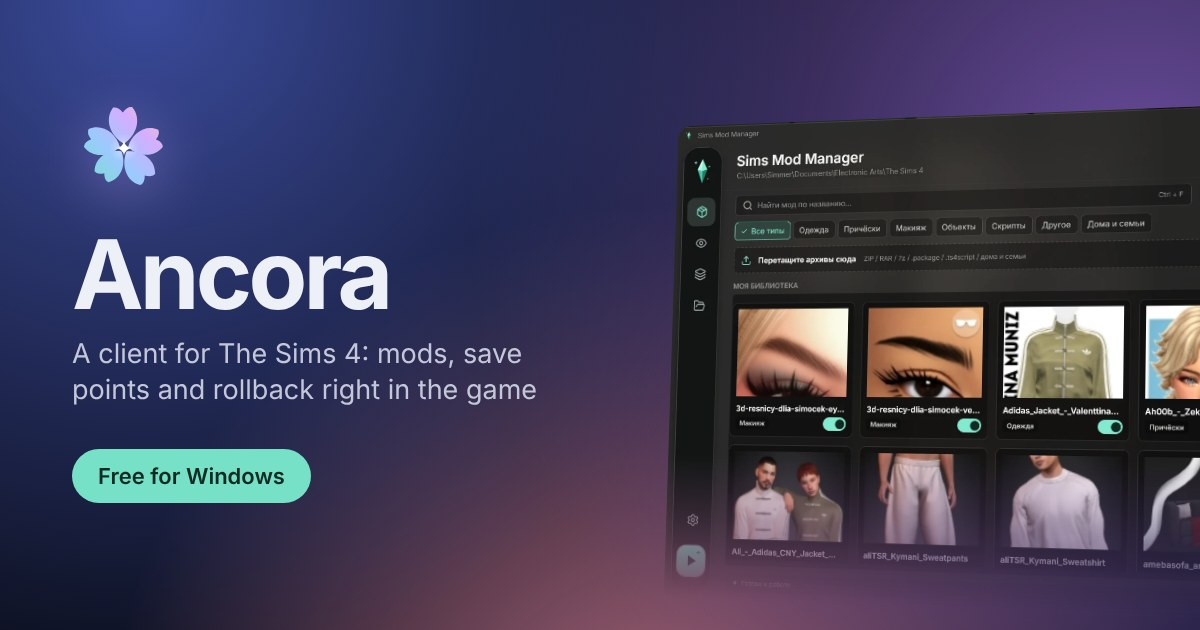
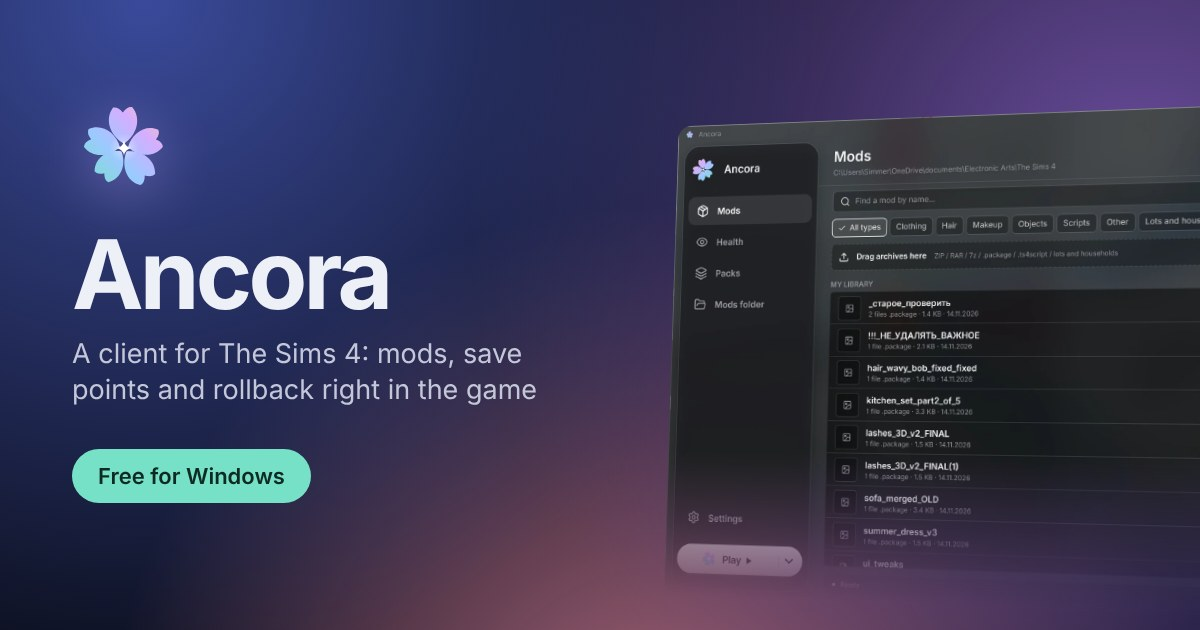
Сайт: новые скриншоты Ancora — отдельно для русской и английской версии (#51)
- Первый экран: «Стекло» с раскрытой боковой панелью; сравнение «до/после» — светлая тема;
  блоки возможностей — панель поиска (тёмная тема), боковая панель, переключатели модов.
- Картинки лежат в img/ru и img/en — у каждой версии сайта интерфейс на своём языке.
- Нарисованный Коробок убран со снимков — на сайте поверх них живёт настоящий.
- Превью ссылок (og) пересобраны с новыми снимками.

Claude-Session: https://claude.ai/code/session_01UNaiBJHPygMSGtKrxsFyp9

Changed region(s): [[0.555, 0.1508, 1.0, 0.9349], [0.8325, 0.7238, 0.925, 0.9048], [0.9558, 0.7238, 1.0, 0.9048]]

diff --git a/site/index.html b/site/index.html
@@ -21,7 +21,7 @@
 <link rel="preconnect" href="https://fonts.googleapis.com">
 <link rel="preconnect" href="https://fonts.gstatic.com" crossorigin>
 <link href="https://fonts.googleapis.com/css2?family=Inter:opsz,wght@14..32,400..700&display=swap" rel="stylesheet">
-<link rel="preload" as="image" href="img/library.webp">
+<link rel="preload" as="image" href="img/ru/library.webp">
 <link rel="stylesheet" href="style.css">
 </head>
 <body>
@@ -78,7 +78,7 @@
 
     <div class="showcase" id="showcase">
       <div class="window" id="window">
-        <img src="img/library.webp" width="1373" height="903" alt="Окно Ancora: библиотека модов с карточками, фильтрами по типам и зоной для перетаскивания архивов">
+        <img src="img/ru/library.webp" width="2000" height="1309" alt="Окно Ancora: библиотека модов с карточками, фильтрами по типам и зоной для перетаскивания архивов">
         <div class="dropzone" aria-hidden="true"></div>
         <div class="box-buddy" data-buddy id="hero-buddy"><span class="bubble">Погладь меня</span></div>
         <div class="toast" id="toast" role="status"><b>✓</b>Установлено 3 мода из «летние-платья.zip»</div>
@@ -106,7 +106,7 @@
         <p>Сотни файлов с непонятными именами, дубли, старые версии и архивы, которые забыли распаковать. Потяни ползунок и сравни.</p>
       </div>
       <div class="compare" id="compare" role="slider" tabindex="0" aria-label="Сравнение: папка Mods в проводнике и библиотека в программе" aria-valuemin="0" aria-valuemax="100" aria-valuenow="50">
-        <div class="after"><img src="img/library.webp" width="1373" height="903" loading="lazy" alt="Та же папка Mods в Ancora: карточки с превью, типы и переключатели"></div>
+        <div class="after"><img src="img/ru/library-light.webp" width="2000" height="1309" loading="lazy" alt="Та же папка Mods в Ancora: список модов с типами и переключателями, проблемы отмечены"></div>
         <div class="before" aria-hidden="true">
           <div class="explorer">
             <div class="tb"><span>📁</span><span>Mods</span><span class="ctl">— ▢ ✕</span></div>
@@ -193,15 +193,15 @@
       <div class="features">
         <div class="f-list">
           <article class="f-item on" data-f="0"><h3>Работает внутри игры</h3><p>Оверлей по клавише: точки сохранения и откат, не сворачивая игру. Встроенный мод-помощник сам сохраняет игру и показывает окна прямо в Sims.</p><img class="f-shot" src="img/ingame.webp" width="1544" height="1029" loading="lazy" alt=""></article>
-          <article class="f-item" data-f="1"><h3>Ставит из любых архивов</h3><p>Zip, rar или 7z — программа распакует, разложит файлы по нужным папкам и покажет, что появилось. Одежда, причёски, объекты и скрипты — каждый на своей вкладке.</p><img class="f-shot" src="img/toolbar.webp" width="1485" height="572" loading="lazy" alt=""></article>
-          <article class="f-item" data-f="2"><h3>Кнопка «Играть» со страховкой</h3><p>Перед каждым запуском копирует сохранения. В два клика запускает игру без модов или без скриптов — чтобы быстро понять, кто виноват в вылете.</p><img class="f-shot tall" src="img/sidebar.webp" width="344" height="1030" loading="lazy" alt=""></article>
-          <article class="f-item" data-f="3"><h3>Находит, что сломалось</h3><p>Читает отчёты игры после вылета, называет виновника и предлагает выключить его. Моды и скрипты включаются одним переключателем — без правки Options.ini.</p><img class="f-shot" src="img/game-switches.webp" width="812" height="250" loading="lazy" alt=""></article>
+          <article class="f-item" data-f="1"><h3>Ставит из любых архивов</h3><p>Zip, rar или 7z — программа распакует, разложит файлы по нужным папкам и покажет, что появилось. Одежда, причёски, объекты и скрипты — каждый на своей вкладке.</p><img class="f-shot" src="img/ru/toolbar.webp" width="1800" height="695" loading="lazy" alt=""></article>
+          <article class="f-item" data-f="2"><h3>Кнопка «Играть» со страховкой</h3><p>Перед каждым запуском копирует сохранения. В два клика запускает игру без модов или без скриптов — чтобы быстро понять, кто виноват в вылете.</p><img class="f-shot tall" src="img/ru/sidebar.webp" width="520" height="1583" loading="lazy" alt=""></article>
+          <article class="f-item" data-f="3"><h3>Находит, что сломалось</h3><p>Читает отчёты игры после вылета, называет виновника и предлагает выключить его. Моды и скрипты включаются одним переключателем — без правки Options.ini.</p><img class="f-shot" src="img/ru/game-switches.webp" width="1300" height="378" loading="lazy" alt=""></article>
         </div>
         <div class="f-stage" aria-hidden="true">
           <figure class="wide on" data-f="0"><img src="img/ingame.webp" width="1544" height="1029" loading="lazy" alt=""></figure>
-          <figure class="wide" data-f="1"><img src="img/toolbar.webp" width="1485" height="572" loading="lazy" alt=""></figure>
-          <figure class="tall" data-f="2"><img src="img/sidebar.webp" width="344" height="1030" loading="lazy" alt=""></figure>
-          <figure class="wide" data-f="3"><img src="img/game-switches.webp" width="812" height="250" loading="lazy" alt=""></figure>
+          <figure class="wide" data-f="1"><img src="img/ru/toolbar.webp" width="1800" height="695" loading="lazy" alt=""></figure>
+          <figure class="tall" data-f="2"><img src="img/ru/sidebar.webp" width="520" height="1583" loading="lazy" alt=""></figure>
+          <figure class="wide" data-f="3"><img src="img/ru/game-switches.webp" width="1300" height="378" loading="lazy" alt=""></figure>
         </div>
       </div>
     </div>

diff --git a/site/en/index.html b/site/en/index.html
@@ -21,7 +21,7 @@
 <link rel="preconnect" href="https://fonts.googleapis.com">
 <link rel="preconnect" href="https://fonts.gstatic.com" crossorigin>
 <link href="https://fonts.googleapis.com/css2?family=Inter:opsz,wght@14..32,400..700&display=swap" rel="stylesheet">
-<link rel="preload" as="image" href="../img/library.webp">
+<link rel="preload" as="image" href="../img/en/library.webp">
 <link rel="stylesheet" href="../style.css">
 </head>
 <body>
@@ -78,7 +78,7 @@
 
     <div class="showcase" id="showcase">
       <div class="window" id="window">
-        <img src="../img/library.webp" width="1373" height="903" alt="Ancora window: a mod library with cards, type filters and a drop zone for archives">
+        <img src="../img/en/library.webp" width="2000" height="1309" alt="Ancora window: a mod library with cards, type filters and a drop zone for archives">
         <div class="dropzone" aria-hidden="true"></div>
         <div class="box-buddy" data-buddy id="hero-buddy"><span class="bubble">Pet me</span></div>
         <div class="toast" id="toast" role="status"><b>✓</b>Installed 3 mods from “summer-dresses.zip”</div>
@@ -106,7 +106,7 @@
         <p>Hundreds of cryptic file names, duplicates, old versions and archives nobody unpacked. Drag the slider to compare.</p>
       </div>
       <div class="compare" id="compare" role="slider" tabindex="0" aria-label="Comparison: the Mods folder in File Explorer and the library in the app" aria-valuemin="0" aria-valuemax="100" aria-valuenow="50">
-        <div class="after"><img src="../img/library.webp" width="1373" height="903" loading="lazy" alt="The same Mods folder in Ancora: cards with previews, types and toggles"></div>
+        <div class="after"><img src="../img/en/library-light.webp" width="2000" height="1309" loading="lazy" alt="The same Mods folder in Ancora: a list of mods with types and toggles, problems flagged"></div>
         <div class="before" aria-hidden="true">
           <div class="explorer">
             <div class="tb"><span>📁</span><span>Mods</span><span class="ctl">— ▢ ✕</span></div>
@@ -193,15 +193,15 @@
       <div class="features">
         <div class="f-list">
           <article class="f-item on" data-f="0"><h3>Works inside the game</h3><p>An overlay on a hotkey: save points and rollback without leaving the game. A built-in helper mod saves the game and shows dialogs right in The Sims.</p><img class="f-shot" src="../img/ingame.webp" width="1544" height="1029" loading="lazy" alt=""></article>
-          <article class="f-item" data-f="1"><h3>Installs from any archive</h3><p>Zip, rar or 7z — it unpacks, puts every file where it belongs and shows what&#x27;s new. Clothes, hair, objects and scripts each get their own tab.</p><img class="f-shot" src="../img/toolbar.webp" width="1485" height="572" loading="lazy" alt=""></article>
-          <article class="f-item" data-f="2"><h3>A Play button with a safety net</h3><p>Backs up your saves before every launch. Two clicks to start the game without mods or without scripts — to find the culprit fast.</p><img class="f-shot tall" src="../img/sidebar.webp" width="344" height="1030" loading="lazy" alt=""></article>
-          <article class="f-item" data-f="3"><h3>Finds what broke</h3><p>Reads the game&#x27;s crash reports, names the culprit and offers to turn it off. Mods and scripts switch on with one toggle — no editing Options.ini.</p><img class="f-shot" src="../img/game-switches.webp" width="812" height="250" loading="lazy" alt=""></article>
+          <article class="f-item" data-f="1"><h3>Installs from any archive</h3><p>Zip, rar or 7z — it unpacks, puts every file where it belongs and shows what&#x27;s new. Clothes, hair, objects and scripts each get their own tab.</p><img class="f-shot" src="../img/en/toolbar.webp" width="1800" height="695" loading="lazy" alt=""></article>
+          <article class="f-item" data-f="2"><h3>A Play button with a safety net</h3><p>Backs up your saves before every launch. Two clicks to start the game without mods or without scripts — to find the culprit fast.</p><img class="f-shot tall" src="../img/en/sidebar.webp" width="520" height="1583" loading="lazy" alt=""></article>
+          <article class="f-item" data-f="3"><h3>Finds what broke</h3><p>Reads the game&#x27;s crash reports, names the culprit and offers to turn it off. Mods and scripts switch on with one toggle — no editing Options.ini.</p><img class="f-shot" src="../img/en/game-switches.webp" width="1300" height="378" loading="lazy" alt=""></article>
         </div>
         <div class="f-stage" aria-hidden="true">
           <figure class="wide on" data-f="0"><img src="../img/ingame.webp" width="1544" height="1029" loading="lazy" alt=""></figure>
-          <figure class="wide" data-f="1"><img src="../img/toolbar.webp" width="1485" height="572" loading="lazy" alt=""></figure>
-          <figure class="tall" data-f="2"><img src="../img/sidebar.webp" width="344" height="1030" loading="lazy" alt=""></figure>
-          <figure class="wide" data-f="3"><img src="../img/game-switches.webp" width="812" height="250" loading="lazy" alt=""></figure>
+          <figure class="wide" data-f="1"><img src="../img/en/toolbar.webp" width="1800" height="695" loading="lazy" alt=""></figure>
+          <figure class="tall" data-f="2"><img src="../img/en/sidebar.webp" width="520" height="1583" loading="lazy" alt=""></figure>
+          <figure class="wide" data-f="3"><img src="../img/en/game-switches.webp" width="1300" height="378" loading="lazy" alt=""></figure>
         </div>
       </div>
     </div>

diff --git a/site/src/template.html b/site/src/template.html
@@ -21,7 +21,7 @@
 <link rel="preconnect" href="https://fonts.googleapis.com">
 <link rel="preconnect" href="https://fonts.gstatic.com" crossorigin>
 <link href="https://fonts.googleapis.com/css2?family=Inter:opsz,wght@14..32,400..700&display=swap" rel="stylesheet">
-<link rel="preload" as="image" href="{{root}}img/library.webp">
+<link rel="preload" as="image" href="{{root}}{{shots}}library.webp">
 <link rel="stylesheet" href="{{root}}style.css">
 </head>
 <body>
@@ -78,7 +78,7 @@
 
     <div class="showcase" id="showcase">
       <div class="window" id="window">
-        <img src="{{root}}img/library.webp" width="1373" height="903" alt="{{hero.alt}}">
+        <img src="{{root}}{{shots}}library.webp" width="2000" height="1309" alt="{{hero.alt}}">
         <div class="dropzone" aria-hidden="true"></div>
         <div class="box-buddy" data-buddy id="hero-buddy"><span class="bubble">{{buddy.pet}}</span></div>
         <div class="toast" id="toast" role="status"><b>✓</b>{{hero.toast}}</div>
@@ -106,7 +106,7 @@
         <p>{{mess.p}}</p>
       </div>
       <div class="compare" id="compare" role="slider" tabindex="0" aria-label="{{mess.slider}}" aria-valuemin="0" aria-valuemax="100" aria-valuenow="50">
-        <div class="after"><img src="{{root}}img/library.webp" width="1373" height="903" loading="lazy" alt="{{mess.afterAlt}}"></div>
+        <div class="after"><img src="{{root}}{{shots}}library-light.webp" width="2000" height="1309" loading="lazy" alt="{{mess.afterAlt}}"></div>
         <div class="before" aria-hidden="true">
           <div class="explorer">
             <div class="tb"><span>📁</span><span>Mods</span><span class="ctl">— ▢ ✕</span></div>
@@ -179,15 +179,15 @@
       <div class="features">
         <div class="f-list">
           <article class="f-item on" data-f="0"><h3>{{feat.h0}}</h3><p>{{feat.p0}}</p><img class="f-shot" src="{{root}}img/ingame.webp" width="1544" height="1029" loading="lazy" alt=""></article>
-          <article class="f-item" data-f="1"><h3>{{feat.h1}}</h3><p>{{feat.p1}}</p><img class="f-shot" src="{{root}}img/toolbar.webp" width="1485" height="572" loading="lazy" alt=""></article>
-          <article class="f-item" data-f="2"><h3>{{feat.h2i}}</h3><p>{{feat.p2}}</p><img class="f-shot tall" src="{{root}}img/sidebar.webp" width="344" height="1030" loading="lazy" alt=""></article>
-          <article class="f-item" data-f="3"><h3>{{feat.h3}}</h3><p>{{feat.p3}}</p><img class="f-shot" src="{{root}}img/game-switches.webp" width="812" height="250" loading="lazy" alt=""></article>
+          <article class="f-item" data-f="1"><h3>{{feat.h1}}</h3><p>{{feat.p1}}</p><img class="f-shot" src="{{root}}{{shots}}toolbar.webp" width="1800" height="695" loading="lazy" alt=""></article>
+          <article class="f-item" data-f="2"><h3>{{feat.h2i}}</h3><p>{{feat.p2}}</p><img class="f-shot tall" src="{{root}}{{shots}}sidebar.webp" width="520" height="1583" loading="lazy" alt=""></article>
+          <article class="f-item" data-f="3"><h3>{{feat.h3}}</h3><p>{{feat.p3}}</p><img class="f-shot" src="{{root}}{{shots}}game-switches.webp" width="1300" height="378" loading="lazy" alt=""></article>
         </div>
         <div class="f-stage" aria-hidden="true">
           <figure class="wide on" data-f="0"><img src="{{root}}img/ingame.webp" width="1544" height="1029" loading="lazy" alt=""></figure>
-          <figure class="wide" data-f="1"><img src="{{root}}img/toolbar.webp" width="1485" height="572" loading="lazy" alt=""></figure>
-          <figure class="tall" data-f="2"><img src="{{root}}img/sidebar.webp" width="344" height="1030" loading="lazy" alt=""></figure>
-          <figure class="wide" data-f="3"><img src="{{root}}img/game-switches.webp" width="812" height="250" loading="lazy" alt=""></figure>
+          <figure class="wide" data-f="1"><img src="{{root}}{{shots}}toolbar.webp" width="1800" height="695" loading="lazy" alt=""></figure>
+          <figure class="tall" data-f="2"><img src="{{root}}{{shots}}sidebar.webp" width="520" height="1583" loading="lazy" alt=""></figure>
+          <figure class="wide" data-f="3"><img src="{{root}}{{shots}}game-switches.webp" width="1300" height="378" loading="lazy" alt=""></figure>
         </div>
       </div>
     </div>

diff --git a/tools/build_site.py b/tools/build_site.py
@@ -56,7 +56,7 @@ def faq(items):
 
 
 RU = {
-    "lang": "ru", "root": "", "og": "og.jpg", "pcPath": "", "ruHref": "./", "enHref": "en/", "isRu": "true", "isEn": "false",
+    "lang": "ru", "root": "", "shots": "img/ru/", "og": "og.jpg", "pcPath": "", "ruHref": "./", "enHref": "en/", "isRu": "true", "isEn": "false",
     "meta.title": "Ancora — клиент для The Sims 4",
     "meta.description": "Бесплатный клиент для The Sims 4: ставит моды из архивов, находит виновника вылета и откатывает сохранения прямо из игры.",
     "nav.label": "Разделы", "nav.ingame": "В игре", "nav.features": "Отличия", "nav.tune": "Настройки", "nav.faq": "Вопросы", "nav.download": "Скачать",
@@ -73,7 +73,7 @@ RU = {
     "mess.h2": "Твоя папка Mods, но без хаоса",
     "mess.p": "Сотни файлов с непонятными именами, дубли, старые версии и архивы, которые забыли распаковать. Потяни ползунок и сравни.",
     "mess.slider": "Сравнение: папка Mods в проводнике и библиотека в программе",
-    "mess.afterAlt": "Та же папка Mods в Ancora: карточки с превью, типы и переключатели",
+    "mess.afterAlt": "Та же папка Mods в Ancora: список модов с типами и переключателями, проблемы отмечены",
     "mess.path": "Документы › Electronic Arts › The Sims 4 › Mods",
     "mess.colName": "Имя", "mess.colDate": "Дата изменения", "mess.colType": "Тип", "mess.colSize": "Размер",
     "mess.before": "Проводник", "mess.after": "Ancora",
@@ -124,7 +124,7 @@ RU = {
 }
 
 EN = {
-    "lang": "en", "root": "../", "og": "og-en.jpg", "pcPath": "en/", "ruHref": "../", "enHref": "./", "isRu": "false", "isEn": "true",
+    "lang": "en", "root": "../", "shots": "img/en/", "og": "og-en.jpg", "pcPath": "en/", "ruHref": "../", "enHref": "./", "isRu": "false", "isEn": "true",
     "meta.title": "Ancora — a client for The Sims 4",
     "meta.description": "A free client for The Sims 4: installs mods from archives, finds the mod that crashed your game and rolls back saves right from inside the game.",
     "nav.label": "Sections", "nav.ingame": "In game", "nav.features": "Why it's different", "nav.tune": "Settings", "nav.faq": "FAQ", "nav.download": "Download",
@@ -141,7 +141,7 @@ EN = {
     "mess.h2": "Your Mods folder, minus the mess",
     "mess.p": "Hundreds of cryptic file names, duplicates, old versions and archives nobody unpacked. Drag the slider to compare.",
     "mess.slider": "Comparison: the Mods folder in File Explorer and the library in the app",
-    "mess.afterAlt": "The same Mods folder in Ancora: cards with previews, types and toggles",
+    "mess.afterAlt": "The same Mods folder in Ancora: a list of mods with types and toggles, problems flagged",
     "mess.path": "Documents › Electronic Arts › The Sims 4 › Mods",
     "mess.colName": "Name", "mess.colDate": "Date modified", "mess.colType": "Type", "mess.colSize": "Size",
     "mess.before": "File Explorer", "mess.after": "Ancora",
